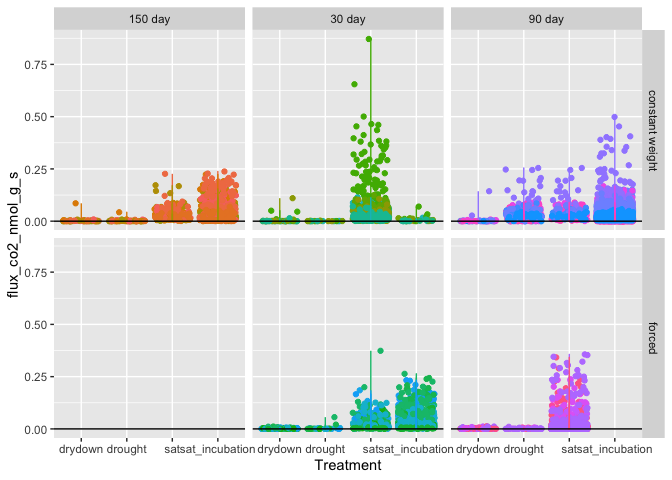
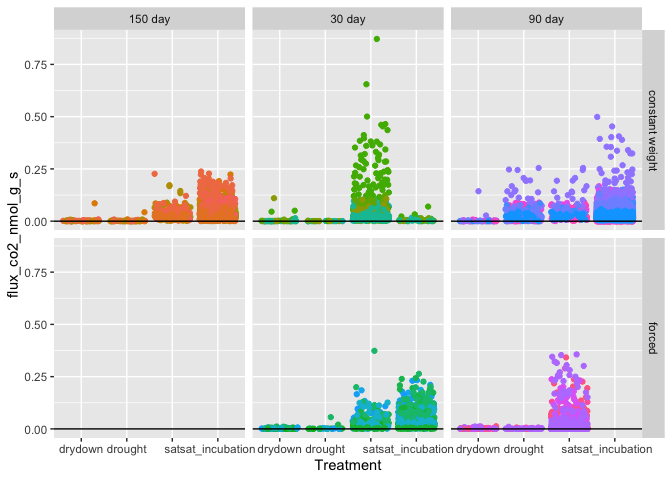
clean code, including order of graphs. add SR graph of fluxes by trt. add CPCRW EGM conc normalized by wt.

diff --git a/markdown/3e-picarro_markdown.md b/markdown/3e-picarro_markdown.md
@@ -5,17 +5,31 @@ CO2 concentrations and/or fluxes from the Picarro and EGM-4.
 
 # 1\. PICARRO DATA – CPCRW
 
-### individual cores
+![](images-markdown-picarro/unnamed-chunk-1-1.png)<!-- -->
+
+<details>
+
+<summary>time-series by treatment</summary>
+
+![](images-markdown-picarro/cpcrw_co2_flux_trt-1.png)<!-- -->
+
+![](images-markdown-picarro/cpcrw__co2_flux_trt2-1.png)<!-- -->
+
+</details>
+
+<details>
+
+<summary>individual cores</summary>
 
 ![](images-markdown-picarro/cpcrw_co2_flux_cores-1.png)<!-- -->
 
 ![](images-markdown-picarro/cpcrw_co2_flux_cores2-1.png)<!-- -->
 
-![](images-markdown-picarro/unnamed-chunk-1-1.png)<!-- -->
+</details>
 
 ### tables – by core
 
-CO2: nmol\_g\_s
+(hidden)
 
 ### tables – by treatment
 
@@ -29,29 +43,33 @@ CO2: nmol\_g\_s
 | constant weight | 90 day  | 0.0034668 | 0.0397379 | 0.0461793 |       0.0283589 |
 | forced          | 90 day  | 0.0020630 | 0.0019100 | 0.0180914 |              NA |
 
-### by treatment
-
-![](images-markdown-picarro/cpcrw_co2_flux_trt-1.png)<!-- -->
-
-![](images-markdown-picarro/cpcrw__co2_flux_trt2-1.png)<!-- -->
-
 # 2\. PICARRO DATA – SR
 
-### individual cores
+![](images-markdown-picarro/unnamed-chunk-4-1.png)<!-- -->
 
-![](images-markdown-picarro/sr_co2_flux_cores-1.png)<!-- -->
+<details>
 
-![](images-markdown-picarro/sr_co2_flux_cores2-1.png)<!-- -->
-
-### by treatment
+<summary>time-series by treatment</summary>
 
 ![](images-markdown-picarro/sr_co2_flux_trt-1.png)<!-- -->
 
 ![](images-markdown-picarro/sr_co2_flux_trt2-1.png)<!-- -->
 
+</details>
+
+<details>
+
+<summary>individual cores</summary>
+
+![](images-markdown-picarro/sr_co2_flux_cores-1.png)<!-- -->
+
+![](images-markdown-picarro/sr_co2_flux_cores2-1.png)<!-- -->
+
+</details>
+
 ### tables – by core
 
-CO2: nmol\_g\_s
+(hidden)
 
 ### tables – by treatment
 
@@ -66,6 +84,8 @@ CO2: nmol\_g\_s
 | constant weight | 90 day  | 0.0353427 | 0.0088140 | 0.0012004 | 0.0175935 |              NA |
 | forced          | 90 day  | 0.0388691 | 0.0088061 | 0.0171287 | 0.0154657 |              NA |
 
+-----
+
 # 3\. EGM DATA – CO2 concentrations
 
 ## ambient CO2
@@ -76,13 +96,15 @@ CO2: nmol\_g\_s
 
 ![](images-markdown-picarro/egm_cores-1.png)<!-- -->![](images-markdown-picarro/egm_cores-2.png)<!-- -->
 
+![](images-markdown-picarro/egm_cores_mass-1.png)<!-- -->
+
 -----
 
 <details>
 
 <summary>Session Info</summary>
 
-Date Run: 2020-07-23
+Date Run: 2020-07-24
 
     #> R version 4.0.2 (2020-06-22)
     #> Platform: x86_64-apple-darwin17.0 (64-bit)
@@ -104,17 +126,16 @@ Date Run: 2020-07-23
     #>  [9] tidyverse_1.3.0    drake_7.12.4       multcomp_1.4-13    TH.data_1.0-10    
     #> [13] MASS_7.3-51.6      survival_3.1-12    mvtnorm_1.1-1      agricolae_1.3-3   
     #> [17] car_3.0-8          carData_3.0-4      nlme_3.1-148       stringi_1.4.6     
-    #> [21] ggExtra_0.9        ggalt_0.4.0        ggplot2_3.3.2      reshape2_1.4.4    
-    #> [25] knitr_1.29         qwraps2_0.4.2      cowplot_1.0.0      data.table_1.12.8 
-    #> [29] Rmisc_1.5          plyr_1.8.6         lattice_0.20-41    luzlogr_0.2.0     
-    #> [33] lubridate_1.7.9    readxl_1.3.1       here_0.1          
+    #> [21] ggExtra_0.9        ggalt_0.4.0        ggplot2_3.3.2      knitr_1.29        
+    #> [25] qwraps2_0.4.2      cowplot_1.0.0      data.table_1.12.8  luzlogr_0.2.0     
+    #> [29] lubridate_1.7.9    readxl_1.3.1       here_0.1          
     #> 
     #> loaded via a namespace (and not attached):
     #>  [1] colorspace_1.4-1   ellipsis_0.3.1     rio_0.5.16         rprojroot_1.3-2   
     #>  [5] fs_1.4.2           rstudioapi_0.11    farver_2.0.3       fansi_0.4.1       
     #>  [9] xml2_1.3.2         codetools_0.2-16   splines_4.0.2      extrafont_0.17    
-    #> [13] jsonlite_1.7.0     broom_0.7.0        Rttf2pt1_1.3.8     dbplyr_1.4.4      
-    #> [17] cluster_2.1.0      shiny_1.5.0        httr_1.4.2         compiler_4.0.2    
+    #> [13] jsonlite_1.7.0     broom_0.7.0        Rttf2pt1_1.3.8     cluster_2.1.0     
+    #> [17] dbplyr_1.4.4       shiny_1.5.0        httr_1.4.2         compiler_4.0.2    
     #> [21] backports_1.1.8    assertthat_0.2.1   Matrix_1.2-18      fastmap_1.0.1     
     #> [25] cli_2.0.2          later_1.1.0.1      htmltools_0.5.0    prettyunits_1.1.1 
     #> [29] tools_4.0.2        igraph_1.2.5       gtable_0.3.0       glue_1.4.1        
@@ -125,13 +146,13 @@ Date Run: 2020-07-23
     #> [49] proj4_1.0-10       sandwich_2.5-1     RColorBrewer_1.1-2 yaml_2.2.1        
     #> [53] curl_4.3           labelled_2.5.0     highr_0.8          klaR_0.6-15       
     #> [57] AlgDesign_1.2.0    filelock_1.0.2     zip_2.0.4          storr_1.2.1       
-    #> [61] rlang_0.4.7        pkgconfig_2.0.3    evaluate_0.14      labeling_0.3      
-    #> [65] tidyselect_1.1.0   magrittr_1.5       R6_2.4.1           generics_0.0.2    
-    #> [69] base64url_1.4      combinat_0.0-8     DBI_1.1.0          txtq_0.2.3        
-    #> [73] pillar_1.4.6       haven_2.3.1        foreign_0.8-80     withr_2.2.0       
-    #> [77] abind_1.4-5        ash_1.0-15         modelr_0.1.8       crayon_1.3.4      
-    #> [81] questionr_0.7.1    KernSmooth_2.23-17 rmarkdown_2.3      progress_1.2.2    
-    #> [85] grid_4.0.2         blob_1.2.1         reprex_0.3.0       digest_0.6.25     
-    #> [89] xtable_1.8-4       httpuv_1.5.4       munsell_0.5.0
+    #> [61] rlang_0.4.7        pkgconfig_2.0.3    evaluate_0.14      lattice_0.20-41   
+    #> [65] labeling_0.3       tidyselect_1.1.0   magrittr_1.5       R6_2.4.1          
+    #> [69] generics_0.0.2     base64url_1.4      combinat_0.0-8     txtq_0.2.3        
+    #> [73] DBI_1.1.0          pillar_1.4.6       haven_2.3.1        foreign_0.8-80    
+    #> [77] withr_2.2.0        abind_1.4-5        ash_1.0-15         modelr_0.1.8      
+    #> [81] crayon_1.3.4       questionr_0.7.1    KernSmooth_2.23-17 rmarkdown_2.3     
+    #> [85] progress_1.2.2     grid_4.0.2         blob_1.2.1         reprex_0.3.0      
+    #> [89] digest_0.6.25      xtable_1.8-4       httpuv_1.5.4       munsell_0.5.0
 
 </details>
